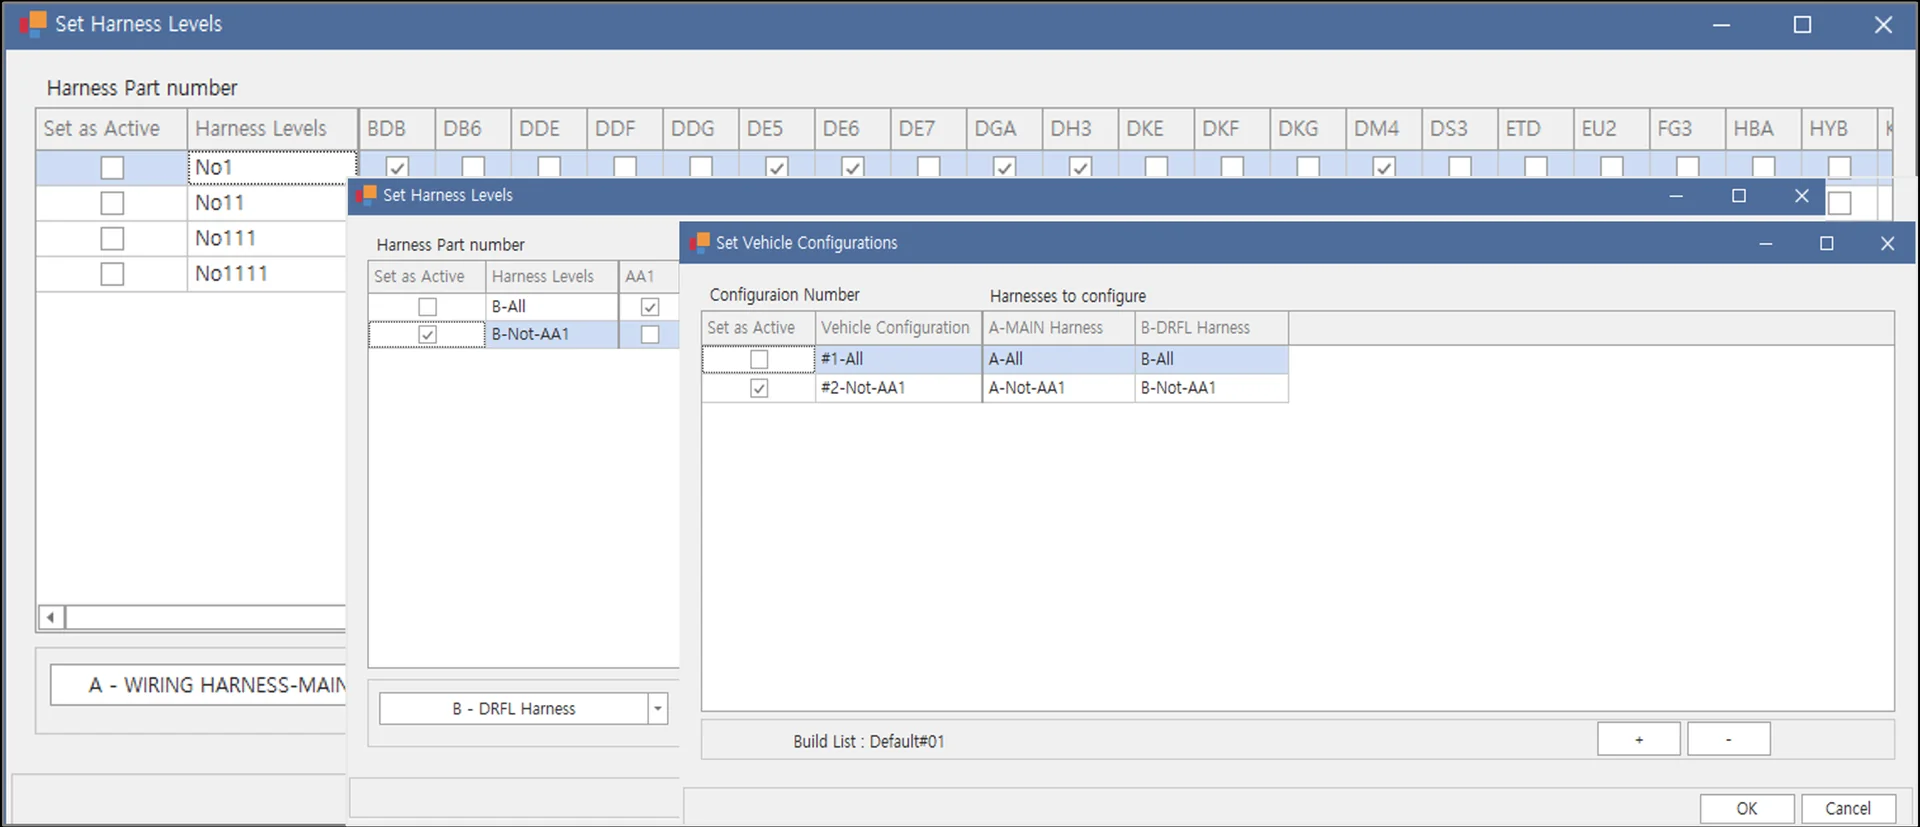
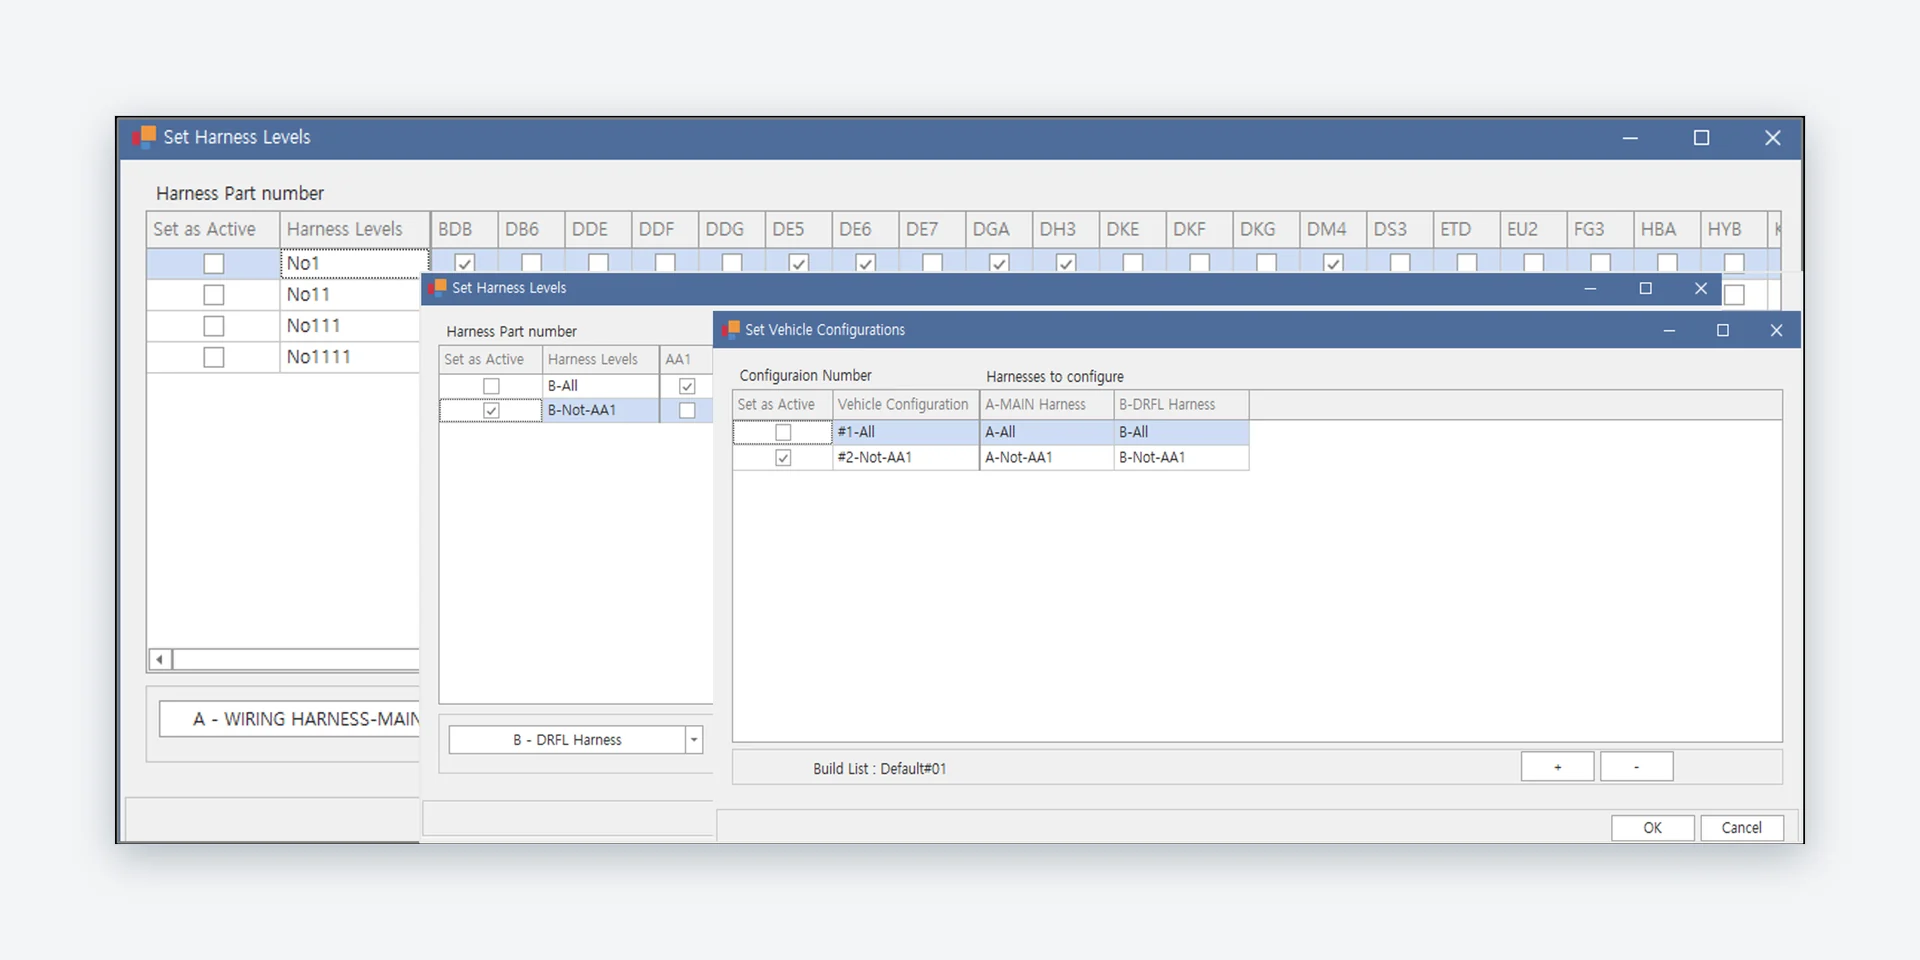
style: 제품 페이지 — 여백 처리를 Library에서 Variant / Option Configuration으로 옮김
- library-ws.webp는 처음(창에 꽉 차게)으로 되돌림
- variant-ws.webp: 납작한(2.32:1) 대화상자를 1920×960 바탕 가운데 88% 크기로, 위아래 여백과 옅은 그림자 — 다른 모듈 창과 같은 2:1 높이

diff --git a/product.html b/product.html
@@ -246,8 +246,8 @@
         </ul>
       </div>
       <div class="reveal reveal-delay-2">
-        <!-- far from 2:1, so its own aspect-ratio (shown whole, not cropped) -->
-        <div class="ga-frame"><div class="ga-bar" aria-hidden="true"><i></i><i></i><i></i><span translate="no">VegaFencer — Variant / Option Configuration</span></div><img style="aspect-ratio: 1920 / 827" src="assets/img/variant-ws.webp" width="1920" height="827" alt="" loading="lazy" decoding="async"></div>
+        <!-- the wide dialog sits on a 2:1 ground with margins, like the other windows -->
+        <div class="ga-frame"><div class="ga-bar" aria-hidden="true"><i></i><i></i><i></i><span translate="no">VegaFencer — Variant / Option Configuration</span></div><img style="object-position: center" src="assets/img/variant-ws.webp" width="1920" height="960" alt="" loading="lazy" decoding="async"></div>
       </div>
     </div>
   </div>
@@ -285,7 +285,7 @@
         </ul>
       </div>
       <div class="reveal reveal-delay-2">
-        <div class="ga-frame"><div class="ga-bar" aria-hidden="true"><i></i><i></i><i></i><span translate="no">VegaFencer — Library Symbol Editor</span></div><img style="object-position: center" src="assets/img/library-ws.webp" width="1400" height="700" alt="" loading="lazy" decoding="async"></div>
+        <div class="ga-frame"><div class="ga-bar" aria-hidden="true"><i></i><i></i><i></i><span translate="no">VegaFencer — Library Symbol Editor</span></div><img src="assets/img/library-ws.webp" width="984" height="514" alt="" loading="lazy" decoding="async"></div>
       </div>
     </div>
   </div>
